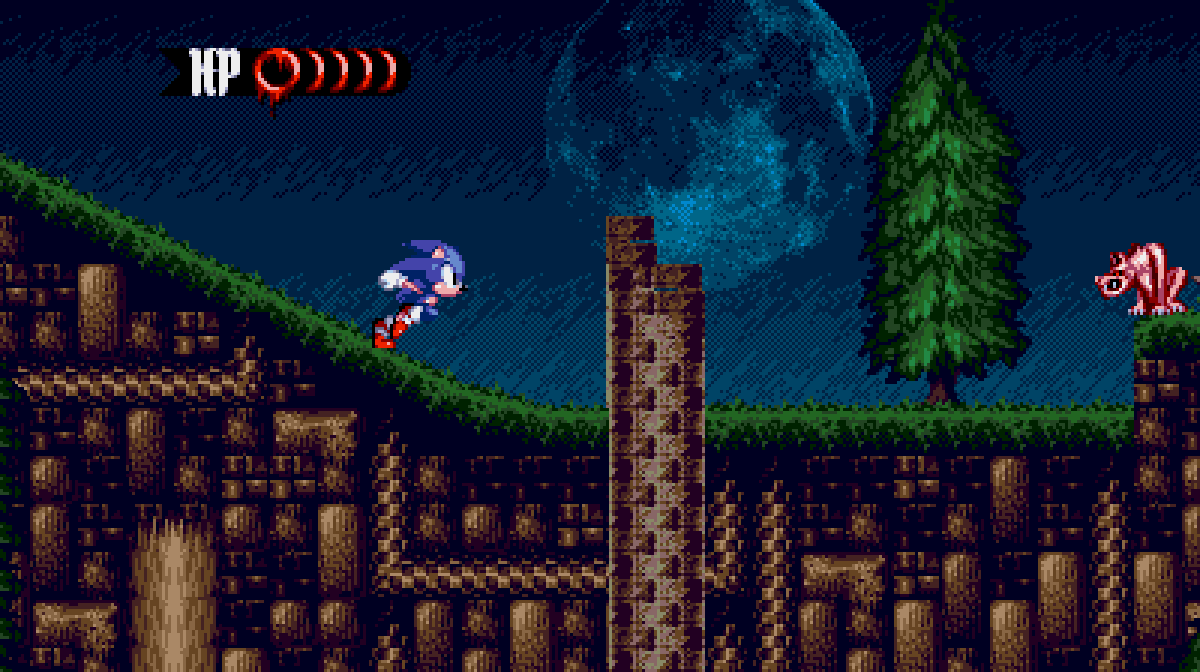
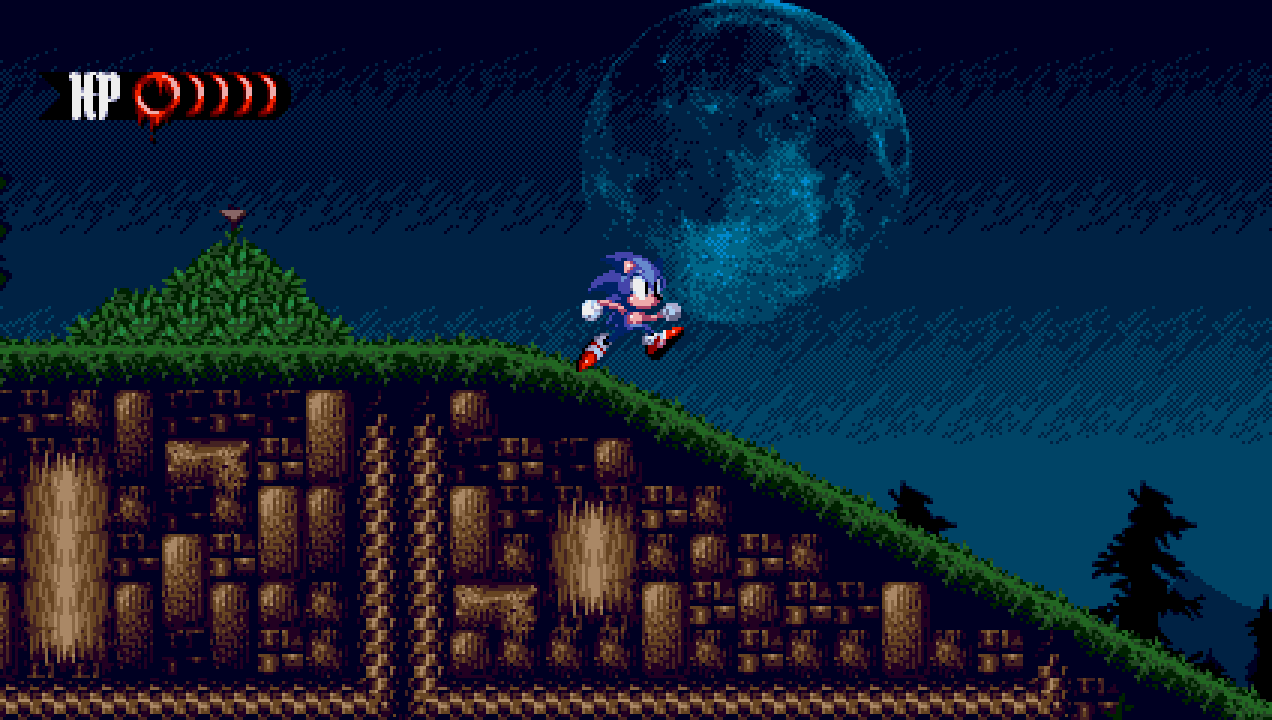
README screenshots at Sonic Mania size (#7)
Claude-Session: https://claude.ai/code/session_018VRVMbGysngv9k8aVMTFmv

diff --git a/README.md b/README.md
@@ -9,7 +9,7 @@
 </p>
 <p align="center"><a href="https://github.com/thebradshaw/hellfire-saga-pc/releases/latest"><img alt="Latest release" src="https://img.shields.io/github/v/release/thebradshaw/hellfire-saga-pc?label=latest%20release&style=flat-square"></a></p>
 
-<p align="center"><img alt="Forest of Decay in 400x224 widescreen" src="docs/screenshots/gameplay-widescreen.png" width="820"></p>
+<p align="center"><img alt="Forest of Decay in Sonic Mania mode, 424x240" src="docs/screenshots/gameplay-widescreen.png" width="820"></p>
 
 **To play:** download, unzip, run `hellfire` (`hellfire.exe` on Windows), drag your ROM onto the window and press **Play**.
 
@@ -27,7 +27,7 @@ The download buttons always get the latest release; older ones are on the [relea
 | ![The launcher, with art by SAWhane](docs/screenshots/launcher.png) | ![The title screen](docs/screenshots/title.png) |
 | The launcher, with art by SAWhane | The title screen |
 
-![Widescreen in Forest of Decay](docs/screenshots/forest-of-decay.png)
+![Sonic Mania mode in Forest of Decay](docs/screenshots/forest-of-decay.png)
 
 ![Mania mode, 424x240, in Malicious Glance](docs/screenshots/mania-mode.png)
 
